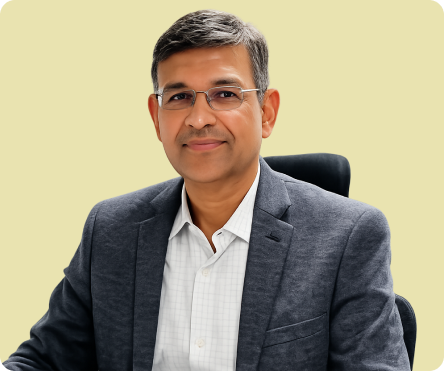
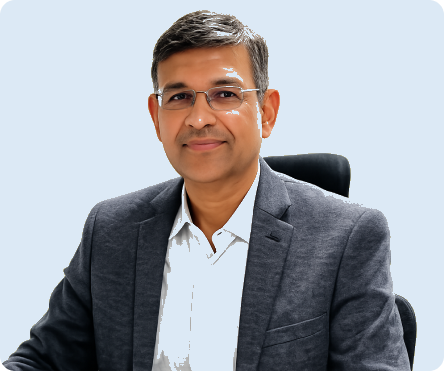
feat: update BoardSection with new directors and images; adjust FacilitiesSection padding

diff --git a/resources/js/components/landing/BoardSection.tsx b/resources/js/components/landing/BoardSection.tsx
@@ -1,23 +1,70 @@
 import { useInView } from '@/hooks/useInView';
 
 const directors = [
-    { name: 'Dr. Praveer Sinha', role: 'Chairman', image: '/landing/board-section/dr-praveer-sinha.png' },
-    { name: 'Dr. Mangu Singh', role: 'Independent Director', image: '/landing/board-section/dr-mangu-singh.png' },
-    { name: 'Mr. Sudip Mullick', role: 'Independent Director', image: '/landing/board-section/mr-sudip-mullick.png' },
-    { name: 'Ms. Sukriti Sood', role: 'Director', image: '/landing/board-section/ms-sukriti-sood.png' },
-    { name: 'Mr. Basil Watters', role: 'Director', image: '/landing/board-section/mr-basil-watters.png' },
+    {
+        name: 'Dr. Praveer Sinha',
+        role: 'Chairman',
+        image: '/landing/board-section/dr-praveer-sinha.png',
+    },
+    {
+        name: 'Dr. Mangu Singh',
+        role: 'Independent Director',
+        image: '/landing/board-section/dr-mangu-singh.png',
+    },
+    {
+        name: 'Mr. Sudip Mullick',
+        role: 'Independent Director',
+        image: '/landing/board-section/mr-sudip-mullick.png',
+    },
+    {
+        name: 'Mr. Basil Watters',
+        role: 'Director',
+        image: '/landing/board-section/mr-basil-watters.png',
+    },
+    {
+        name: 'Ms. Sukriti Sood',
+        role: 'Director',
+        image: '/landing/board-section/ms-sukriti-sood.png',
+    },
+    {
+        name: 'Mr. John Doe',
+        role: 'Nominee Director',
+        image: '/landing/board-section/placeholder-director.png',
+    },
+
+    {
+        name: 'Mr. Anil Kumar Saini',
+        role: 'Chief Executive Officer',
+        image: '/landing/leadership-section/ceo-anil-kumar-saini.png',
+    },
+    {
+        name: 'Mr. Mitul Jhaveri',
+        role: 'Chief Financial Officer',
+        image: '/landing/leadership-section/cfo-mitul-jhaveri.png',
+    },
+
+    {
+        name: 'Ms. Anjali Gupta',
+        role: 'Company Secretary',
+        image: '/landing/board-section/ms-anjali-gupta.png',
+    },
 ];
 
-const others = [
-    { name: 'Mr. Deepak Singla', role: 'Nominee Director', image: '/landing/board-section/mr-deepak-singla.png' },
-    { name: 'Ms. Anjali Gupta', role: 'Company Secretary', image: '/landing/board-section/ms-anjali-gupta.png' },
-];
-
-function DirectorAvatar({ name, role, image }: { name: string; role: string; image: string }) {
+function DirectorAvatar({
+    name,
+    role,
+    image,
+    bg = '#dce9f5',
+}: {
+    name: string;
+    role: string;
+    image: string;
+    bg?: string;
+}) {
     return (
-        <div className="flex flex-col items-center gap-3 text-center">
+        <div className="flex w-full flex-col items-center gap-3 text-center">
             {/* Photo */}
-            <div className="h-45 w-[160px] overflow-hidden rounded-2xl bg-gray-100">
+            <div className="h-56 w-full overflow-hidden rounded-2xl" style={{ backgroundColor: bg }}>
                 <img
                     src={image}
                     alt={name}
@@ -25,60 +72,72 @@ function DirectorAvatar({ name, role, image }: { name: string; role: string; ima
                 />
             </div>
             <div>
-                <p className="font-montserrat text-sm font-semibold" style={{ color: '#000000' }}>
+                <p
+                    className="font-montserrat text-sm font-semibold"
+                    style={{ color: '#000000' }}
+                >
                     {name}
                 </p>
-                <p className="font-montserrat text-xs font-normal" style={{ color: '#000000' }}>
+                <p
+                    className="font-montserrat text-xs font-normal"
+                    style={{ color: '#000000' }}
+                >
                     {role}
                 </p>
-                <div className="mt-1 flex justify-center">
-                    <div className="h-0.5 w-8 rounded-full bg-brand" />
-                </div>
             </div>
         </div>
     );
 }
 
-export default function BoardSection() {
-    const { ref: headerRef, inView: headerInView } = useInView<HTMLDivElement>();
-    const { ref: row1Ref, inView: row1InView } = useInView<HTMLDivElement>();
-    const { ref: row2Ref, inView: row2InView } = useInView<HTMLDivElement>();
+export default function BoardSection({ showHeading = true }: { showHeading?: boolean }) {
+    const { ref: headerRef, inView: headerInView } =
+        useInView<HTMLDivElement>();
+    const { ref: rowRef, inView: rowInView } = useInView<HTMLDivElement>();
 
     return (
-        <section id="board" className="bg-white py-20">
+        <section id="board" className="bg-white py-10">
             <div className="mx-auto max-w-360 px-6 lg:px-16">
                 {/* Header */}
-                <div ref={headerRef} className={`mb-12 text-center transition-all duration-700 ${headerInView ? 'opacity-100 translate-y-0' : 'opacity-0 translate-y-8'}`}>
-                    <h2 className="mb-3 font-montserrat text-3xl font-bold text-gray-900 lg:text-4xl">
-                        Board Of Directors
-                    </h2>
-                    <p className="font-montserrat text-sm text-black">
-                        Our team of experts brings years of experience, skill, and dedication to every project.
-                    </p>
+                {showHeading && (
+                <div
+                    ref={headerRef}
+                    className={`mb-4 transition-all duration-700 ${headerInView ? 'translate-y-0 opacity-100' : 'translate-y-8 opacity-0'}`}
+                >
+                    <div className="text-center">
+                        <h1
+                            className="mb-0 shrink-0 border-0 text-center font-montserrat font-bold text-black"
+                            style={{ fontSize: '30px' }}
+                        >
+                            Board Of Directors
+                        </h1>
+                        <p className="font-montserrat text-sm text-black">
+                            Our team of experts brings years of experience,
+                            skill, and dedication to every project.
+                        </p>
+                    </div>
                 </div>
+                )}
 
-                {/* Main directors row */}
-                <div ref={row1Ref} className="mb-10 flex flex-wrap justify-center gap-8">
+                {/* Directors grid */}
+                <div
+                    ref={rowRef}
+                    className="grid grid-cols-2 gap-x-2 gap-y-8 sm:grid-cols-3 lg:grid-cols-5"
+                >
                     {directors.map((d, i) => (
                         <div
                             key={d.name}
-                            className={`transition-all duration-500 ${row1InView ? 'opacity-100 translate-y-0' : 'opacity-0 translate-y-10'}`}
-                            style={{ transitionDelay: row1InView ? `${i * 100}ms` : '0ms' }}
+                            className={`w-full transition-all duration-500 ${rowInView ? 'translate-y-0 opacity-100' : 'translate-y-10 opacity-0'}`}
+                            style={{
+                                transitionDelay: rowInView
+                                    ? `${i * 100}ms`
+                                    : '0ms',
+                            }}
                         >
-                            <DirectorAvatar name={d.name} role={d.role} image={d.image} />
-                        </div>
-                    ))}
-                </div>
-
-                {/* Secondary row */}
-                <div ref={row2Ref} className="flex flex-wrap justify-center gap-8">
-                    {others.map((d, i) => (
-                        <div
-                            key={d.name}
-                            className={`transition-all duration-500 ${row2InView ? 'opacity-100 translate-y-0' : 'opacity-0 translate-y-10'}`}
-                            style={{ transitionDelay: row2InView ? `${i * 100}ms` : '0ms' }}
-                        >
-                            <DirectorAvatar name={d.name} role={d.role} image={d.image} />
+                            <DirectorAvatar
+                                name={d.name}
+                                role={d.role}
+                                image={d.image}
+                            />
                         </div>
                     ))}
                 </div>

diff --git a/resources/js/pages/frontend/board.tsx b/resources/js/pages/frontend/board.tsx
@@ -1,56 +1,10 @@
 import { Head } from '@inertiajs/react';
-import { useState } from 'react';
 import LeadershipSection from '@/components/landing/LeadershipSection';
 import PageSectionHeading from '@/components/landing/PageSectionHeading';
 import PageHeroBanner from '@/components/landing/PageHeroBanner';
-
-
-const teamMembers = [
-    {
-        image: '/about/leader-image/praveen-sinha.png',
-        name: 'Dr. Praveer Sinha',
-        designation: 'Chairman',
-        content:
-            "Dr. Praveer Sinha is the CEO & Managing Director of Tata Power, leading its transformation from a traditional utility into a sustainable, technology-driven, customer-focused green energy company. With over 40 years of experience across the power sector, he has championed clean energy innovation, including establishing India’s first international clean energy incubator. He also advises the MIT Energy Initiative and contributes to national power sector reforms. Recognized as Best CEO (Power Sector) by Business Today, Fortune India, and Forbes in 2023, he holds an Electrical Engineering degree, a master’s in business law, a doctorate from IIT Delhi, and completed AMP at IIM Ahmedabad. He is also a visiting Research Associate at MIT, USA.",
-    },
-    {
-        image: '/about/leader-image/mangu-singh.png',
-        name: 'Dr. Mangu Singh',
-        designation: 'Independent Director',
-        content:
-            'Dr. Mangu Singh, a Civil Engineering graduate from the University of Roorkee (1979), joined IRSE and built a distinguished career in Indian Railways. As MD of Delhi Metro Rail Corporation for over a decade, he led major metro projects across India, overseeing complex infrastructure including ~200 km of tunnels and 70 stations. With 33+ years of experience, he also led Delhi Metro’s CDM project with UNFCCC, earning carbon credits. He has received multiple honors, including the Railway Week Award (1996) and distinguished alumni awards from IIT Roorkee and NAIR, and served as President of CoMET in 2019 and member of UITP’s Policy Board.',
-    },
-    {
-        image: '/about/leader-image/leader-4.png',
-        name: 'Mr. Sudip Mullick',
-        designation: 'Independent Director',
-        content: 'Mr. Sudip Mullick is a Partner at Economic Laws Practice, specializing in real estate, construction (contracts & disputes), and hospitality. Previously at Khaitan & Co. for nearly 30 years, he helped establish its Mumbai office and served on its national executive committee. A Calcutta University law graduate, he is widely recognized in Chambers, Legal 500, Benchmark Litigation, and named an Elite Practitioner by Asia Law (2024–25). He also serves as an independent director on several boards and completed a leadership program at Harvard University in 2017.',
-    },
-    {
-        image: '/about/leader-image/leader-1.png',
-        name: 'Mr. Basil Watters',
-        designation: 'Director',
-        content: 'A Project Finance expert with 20 years of experience at a major international London-based law firm, an international development bank in United Kingdom and India, and with the financial arm of one of the Europe’s largest and successful global engineering companies. He was lived worked in the United Kingdom, India and Germany, and worked as an external counsel, internal counsel and also as Chief Operations Officer for South Asia, and latterly as debt and equity provider, demonstrating large skills set in a variety of roles.',
-    },
-    {
-        image: '/about/leader-image/leader-2.png',
-        name: 'Ms. Sukriti Sood',
-        designation: 'Director',
-        content: 'Ms. Sukriti Sood has over 18 years of experience across financial services. She has been with Siemens Financial Services (SFS) since 2013 and has worked across both debt and equity businesses. Currently she leads the India business for equity investments for SFS. She has done her Civil Engineering from Delhi College of Engineering, her MBA from SP Jain Institute of Management & Research, Mumbai and her Masters in Finance from London Business School, UK.',
-    },
-    {
-        image: '/about/leader-image/leader-3.png',
-        name: 'Mr. Deepak Singla',
-        designation: 'Nominee Director',
-        content: 'Deepak Singla, a commerce graduate from Kurukshetra University, is a Chartered Accountant and CFA who previously worked at Nestlé India. He cleared the IAS exam in 2012 and has ~10 years of experience in urban and rural administration, serving in roles such as SDO (Umred, Yavatmal), CEO Zila Parishad Yavatmal, Commissioner–Water Conservation (Aurangabad), Collector–Gadchiroli, and MD Tribal Development Corporation (Nashik). Since November 2022, he has been Additional Commissioner at Pune Metropolitan Region Development Corporation.',
-    },
-];
+import BoardSection from '@/components/landing/BoardSection';
 
 export default function Board() {
-    const [openIndex, setOpenIndex] = useState<number | null>(null);
-
-    const toggle = (idx: number) => setOpenIndex((prev) => (prev === idx ? null : idx));
-
     return (
         <>
             <Head>
@@ -71,66 +25,8 @@ export default function Board() {
                 </div>
             </section>
 
-            {/* ── Leadership Section ── */}
-            <LeadershipSection showCeoTitle={false} showCfoTitle={false} />
-
-            {/* ── Board Member Cards ── */}
-            <section className="bg-white">
-                <div className="mx-auto max-w-[1303px] min-[1440px]:max-w-360 px-6 min-[1303px]:px-8">
-                    <div className="grid grid-cols-1 gap-8 sm:grid-cols-2 lg:grid-cols-3">
-                        {teamMembers.map((member, idx) => (
-                            <div
-                                key={idx}
-                                className={`group flex flex-col overflow-hidden rounded-2xl bg-white transition-all duration-300 hover:-translate-y-1 ${openIndex === idx ? 'border border-gray-100' : 'border border-transparent'}`}
-                            >
-                                <div className="relative h-96 overflow-hidden bg-[#e8e8b4]">
-                                    <img
-                                        src={member.image}
-                                        alt={member.name}
-                                        className="h-full w-full object-cover object-top transition-transform duration-500 group-hover:scale-105"
-                                    />
-                                    <div className="absolute inset-0 bg-gradient-to-t from-black/30 to-transparent opacity-0 transition-opacity duration-300 group-hover:opacity-100" />
-                                </div>
-                                <div className="flex flex-1 flex-col p-5">
-                                    <div className="flex items-center justify-between gap-3">
-                                        <div>
-                                            <p className="font-montserrat font-semibold text-black" style={{ fontSize: '16px' }}>
-                                                {member.name}
-                                            </p>
-                                            <p className="mt-0.5 font-montserrat text-brand" style={{ fontSize: '13px' }}>
-                                                {member.designation}
-                                            </p>
-                                        </div>
-                                        <button
-                                            type="button"
-                                            onClick={() => toggle(idx)}
-                                            aria-expanded={openIndex === idx}
-                                            aria-label={openIndex === idx ? 'Hide bio' : 'Show bio'}
-                                            className={`flex h-8 w-8 flex-shrink-0 items-center justify-center rounded-full border transition-all duration-300 ${
-                                                openIndex === idx
-                                                    ? 'border-brand bg-brand text-white'
-                                                    : 'border-brand text-brand hover:bg-brand/10'
-                                            }`}
-                                        >
-                                            <span className="text-lg leading-none">{openIndex === idx ? '−' : '+'}</span>
-                                        </button>
-                                    </div>
-                                    <div
-                                        className={`overflow-hidden transition-all duration-500 ease-in-out ${
-                                            openIndex === idx ? 'mt-3 max-h-96 opacity-100' : 'max-h-0 opacity-0'
-                                        }`}
-                                    >
-                                        <div className="mb-2 h-px w-full bg-gray-100" />
-                                        <p className="font-montserrat leading-relaxed text-gray-600" style={{ fontSize: '13px' }}>
-                                            {member.content}
-                                        </p>
-                                    </div>
-                                </div>
-                            </div>
-                        ))}
-                    </div>
-                </div>
-            </section>
+            {/* ── Board Members ── */}
+            <BoardSection showHeading={false} />
         </>
     );
 }

diff --git a/resources/js/pages/welcome.tsx b/resources/js/pages/welcome.tsx
@@ -22,13 +22,14 @@ export default function Welcome() {
             <KeyFeaturesSection />
             <ExplorePuneSection />
             <FacilitiesSection />
-            <LeadershipSection />
+            {/* <LeadershipSection /> */}
+
+            <BoardSection />
             <QuoteBanner>
                 &ldquo;Puneri Metro is more than transport, it reflects the rhythm of a smarter, faster city, connecting people to
                 opportunities with greater ease. Designed for comfort, sustainability and efficiency, it transforms everyday
                 travel into a seamless urban experience.&rdquo;
             </QuoteBanner>
-            <BoardSection />
         </>
     );
 }

diff --git a/resources/js/components/landing/FacilitiesSection.tsx b/resources/js/components/landing/FacilitiesSection.tsx
@@ -38,7 +38,7 @@ export default function FacilitiesSection() {
     const { ref: cardsRef, inView: cardsInView } = useInView<HTMLDivElement>();
 
     return (
-        <section id="facilities" className="bg-white py-20">
+        <section id="facilities" className="bg-white py-10">
             <div className="mx-auto max-w-360 px-6 lg:px-16">
                 <div className="grid grid-cols-1 gap-12 lg:grid-cols-3">
                     {/* Left: sticky header */}